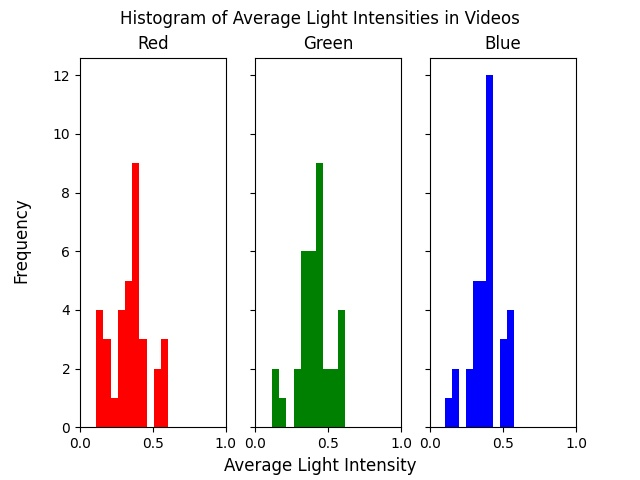
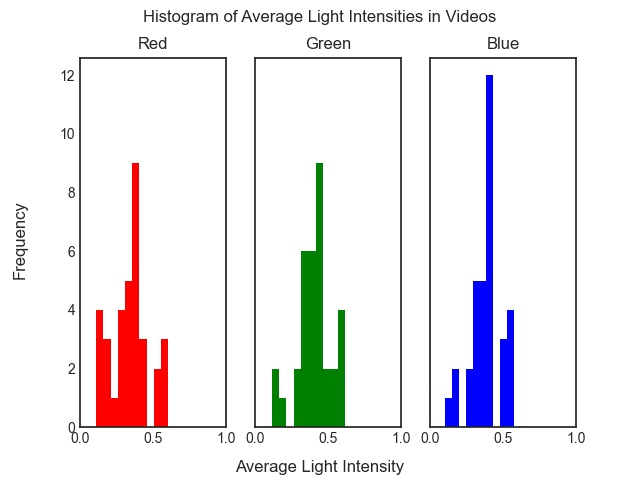
all seaborn-white

diff --git a/locations.py b/locations.py
@@ -43,7 +43,7 @@ for folder in os.listdir(labels_folder):
                 counts[max_imgs] = 1
 
 print(counts)
-
+plt.style.use('seaborn-white')
 plt.scatter(xs, ys, c='b')
 
 ax = plt.gca()
@@ -51,4 +51,4 @@ ax.axes.xaxis.set_visible(False)
 ax.axes.yaxis.set_visible(False)
 
 plt.title("Centers of Windows")
-plt.savefig('output.jpg')
+plt.savefig('locations.jpg')

diff --git a/times.py b/times.py
@@ -15,6 +15,7 @@ for video in os.listdir(videos_folder):
         cap = cv2.VideoCapture(os.path.join(videos_folder,video))
         frames.append(int(cap.get(cv2.CAP_PROP_FRAME_COUNT)))
 
+plt.style.use('seaborn-white')
 plt.hist(frames)
 plt.xlabel("Frames in Video")
 plt.ylabel("Frequency")

diff --git a/wh.py b/wh.py
@@ -43,7 +43,7 @@ for folder in os.listdir(labels_folder):
                 counts[max_imgs] = 1
 
 print(counts)
-
+plt.style.use('seaborn-white')
 plt.scatter(ws, hs, c='b')
 
 plt.tick_params(which='both', left=False, labelleft=False, bottom=False, labelbottom=False)

diff --git a/color_intensities.py b/color_intensities.py
@@ -29,6 +29,8 @@ for video in os.listdir(videos_folder):
         greens.append(avg[1])
         reds.append(avg[2])
 
+plt.style.use('seaborn-white')
+
 fig, axs = plt.subplots(1, 3, sharey=True)
 
 axs[0].hist(reds, color='r')

diff --git a/intensities.py b/intensities.py
@@ -24,6 +24,7 @@ for video in os.listdir(videos_folder):
                 break
         frames.append(avg/num_frames/255)
 
+plt.style.use('seaborn-white')
 
 plt.hist(frames)
 plt.xlabel("Average Light Intensity")
